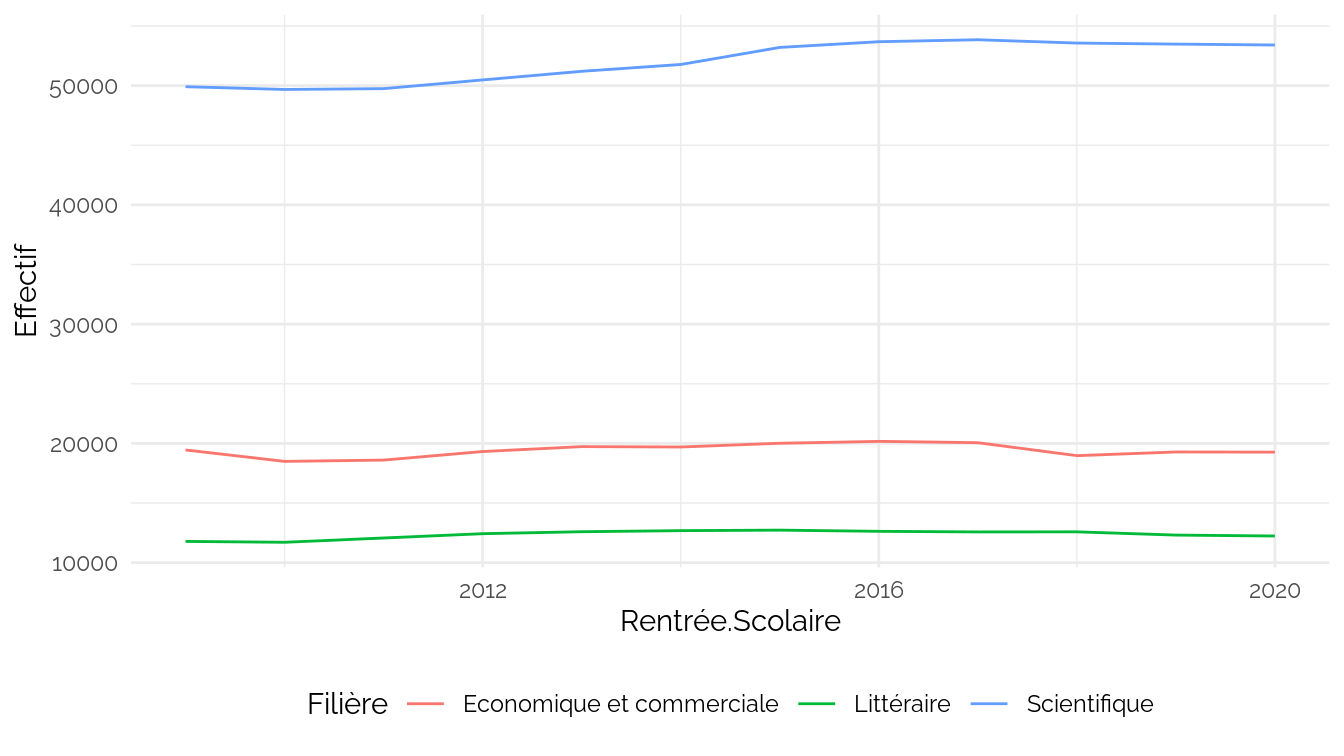
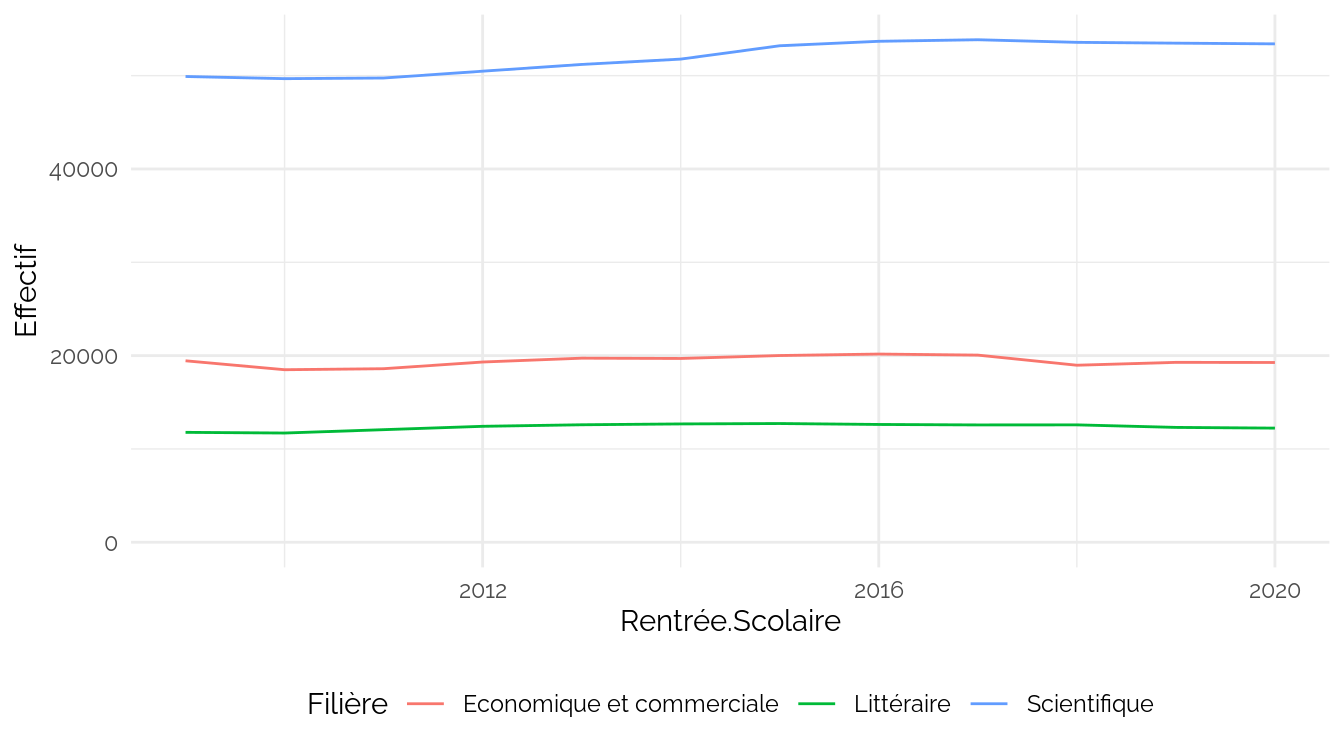
CPGE

diff --git a/CPGE/CPGE.md b/CPGE/CPGE.md
@@ -30,3 +30,7 @@ CPESR
     ## ℹ Please use `linewidth` instead.
 
 <img src="CPGE_files/figure-gfm/Année-1.png" width="672" />
+
+### Public/Privé
+
+<img src="CPGE_files/figure-gfm/Secteur-1.png" width="672" />
